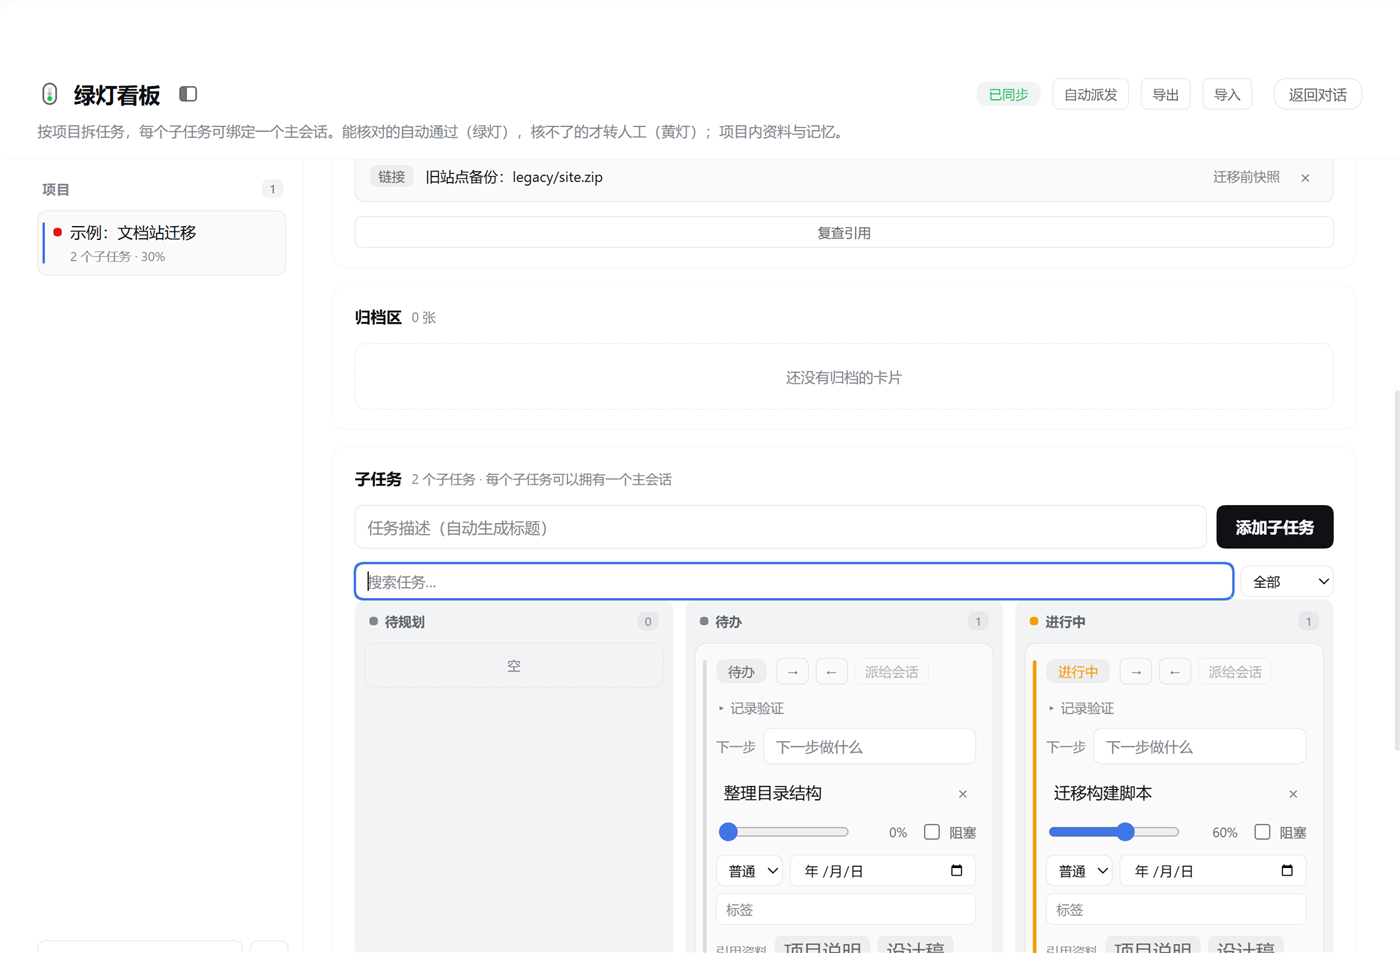
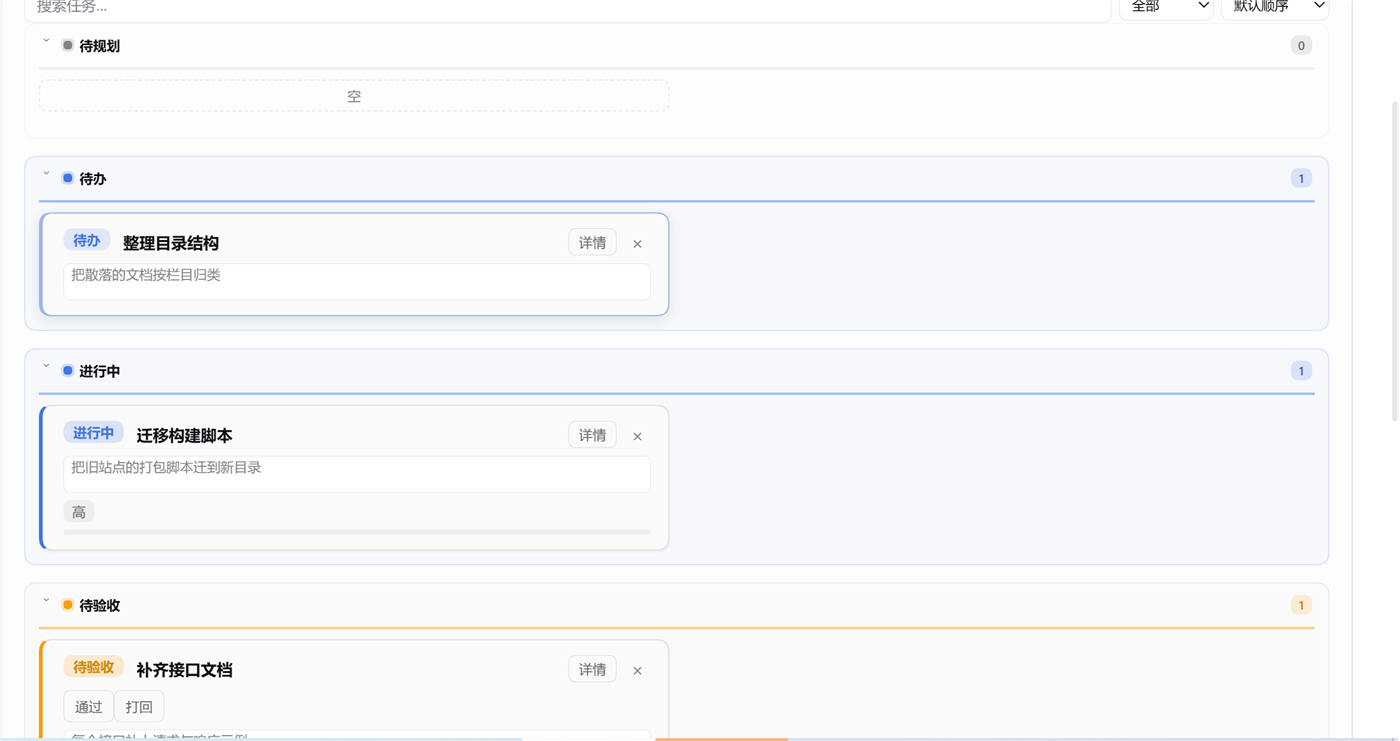
docs: refresh board screenshots for the lane layout
The board and lane screenshots predated the full-width lane rework and still
showed the old three-per-row columns and the progress slider.

Both were recaptured from a throwaway demo project (generic content only) with
the DSH sidebar cropped out, so no real project appears in them. The demo
project was removed afterwards.

diff --git a/README.en.md b/README.en.md
@@ -17,7 +17,7 @@ the Host decides whether the card may close.
 
 <img alt="Greenlight board: the project-rail toggle beside the title, the project summary with acceptance rules, and the multi-line materials block" src="docs/board.png" width="900">
 
-<img alt="The same page further down: the archive and the six full-width status lanes (planned, todo, running, review, done, failed)" src="docs/columns.png" width="900">
+<img alt="The same page further down: tasks arranged as full-width status lanes (planned, todo, running, review, …), each card carrying its status pill, title, note and priority" src="docs/columns.png" width="900">
 
 <img alt="A draft plan from the agent: three proposed cards with notes, and the create / edit / discard controls" src="docs/draft.png" width="900">
 
